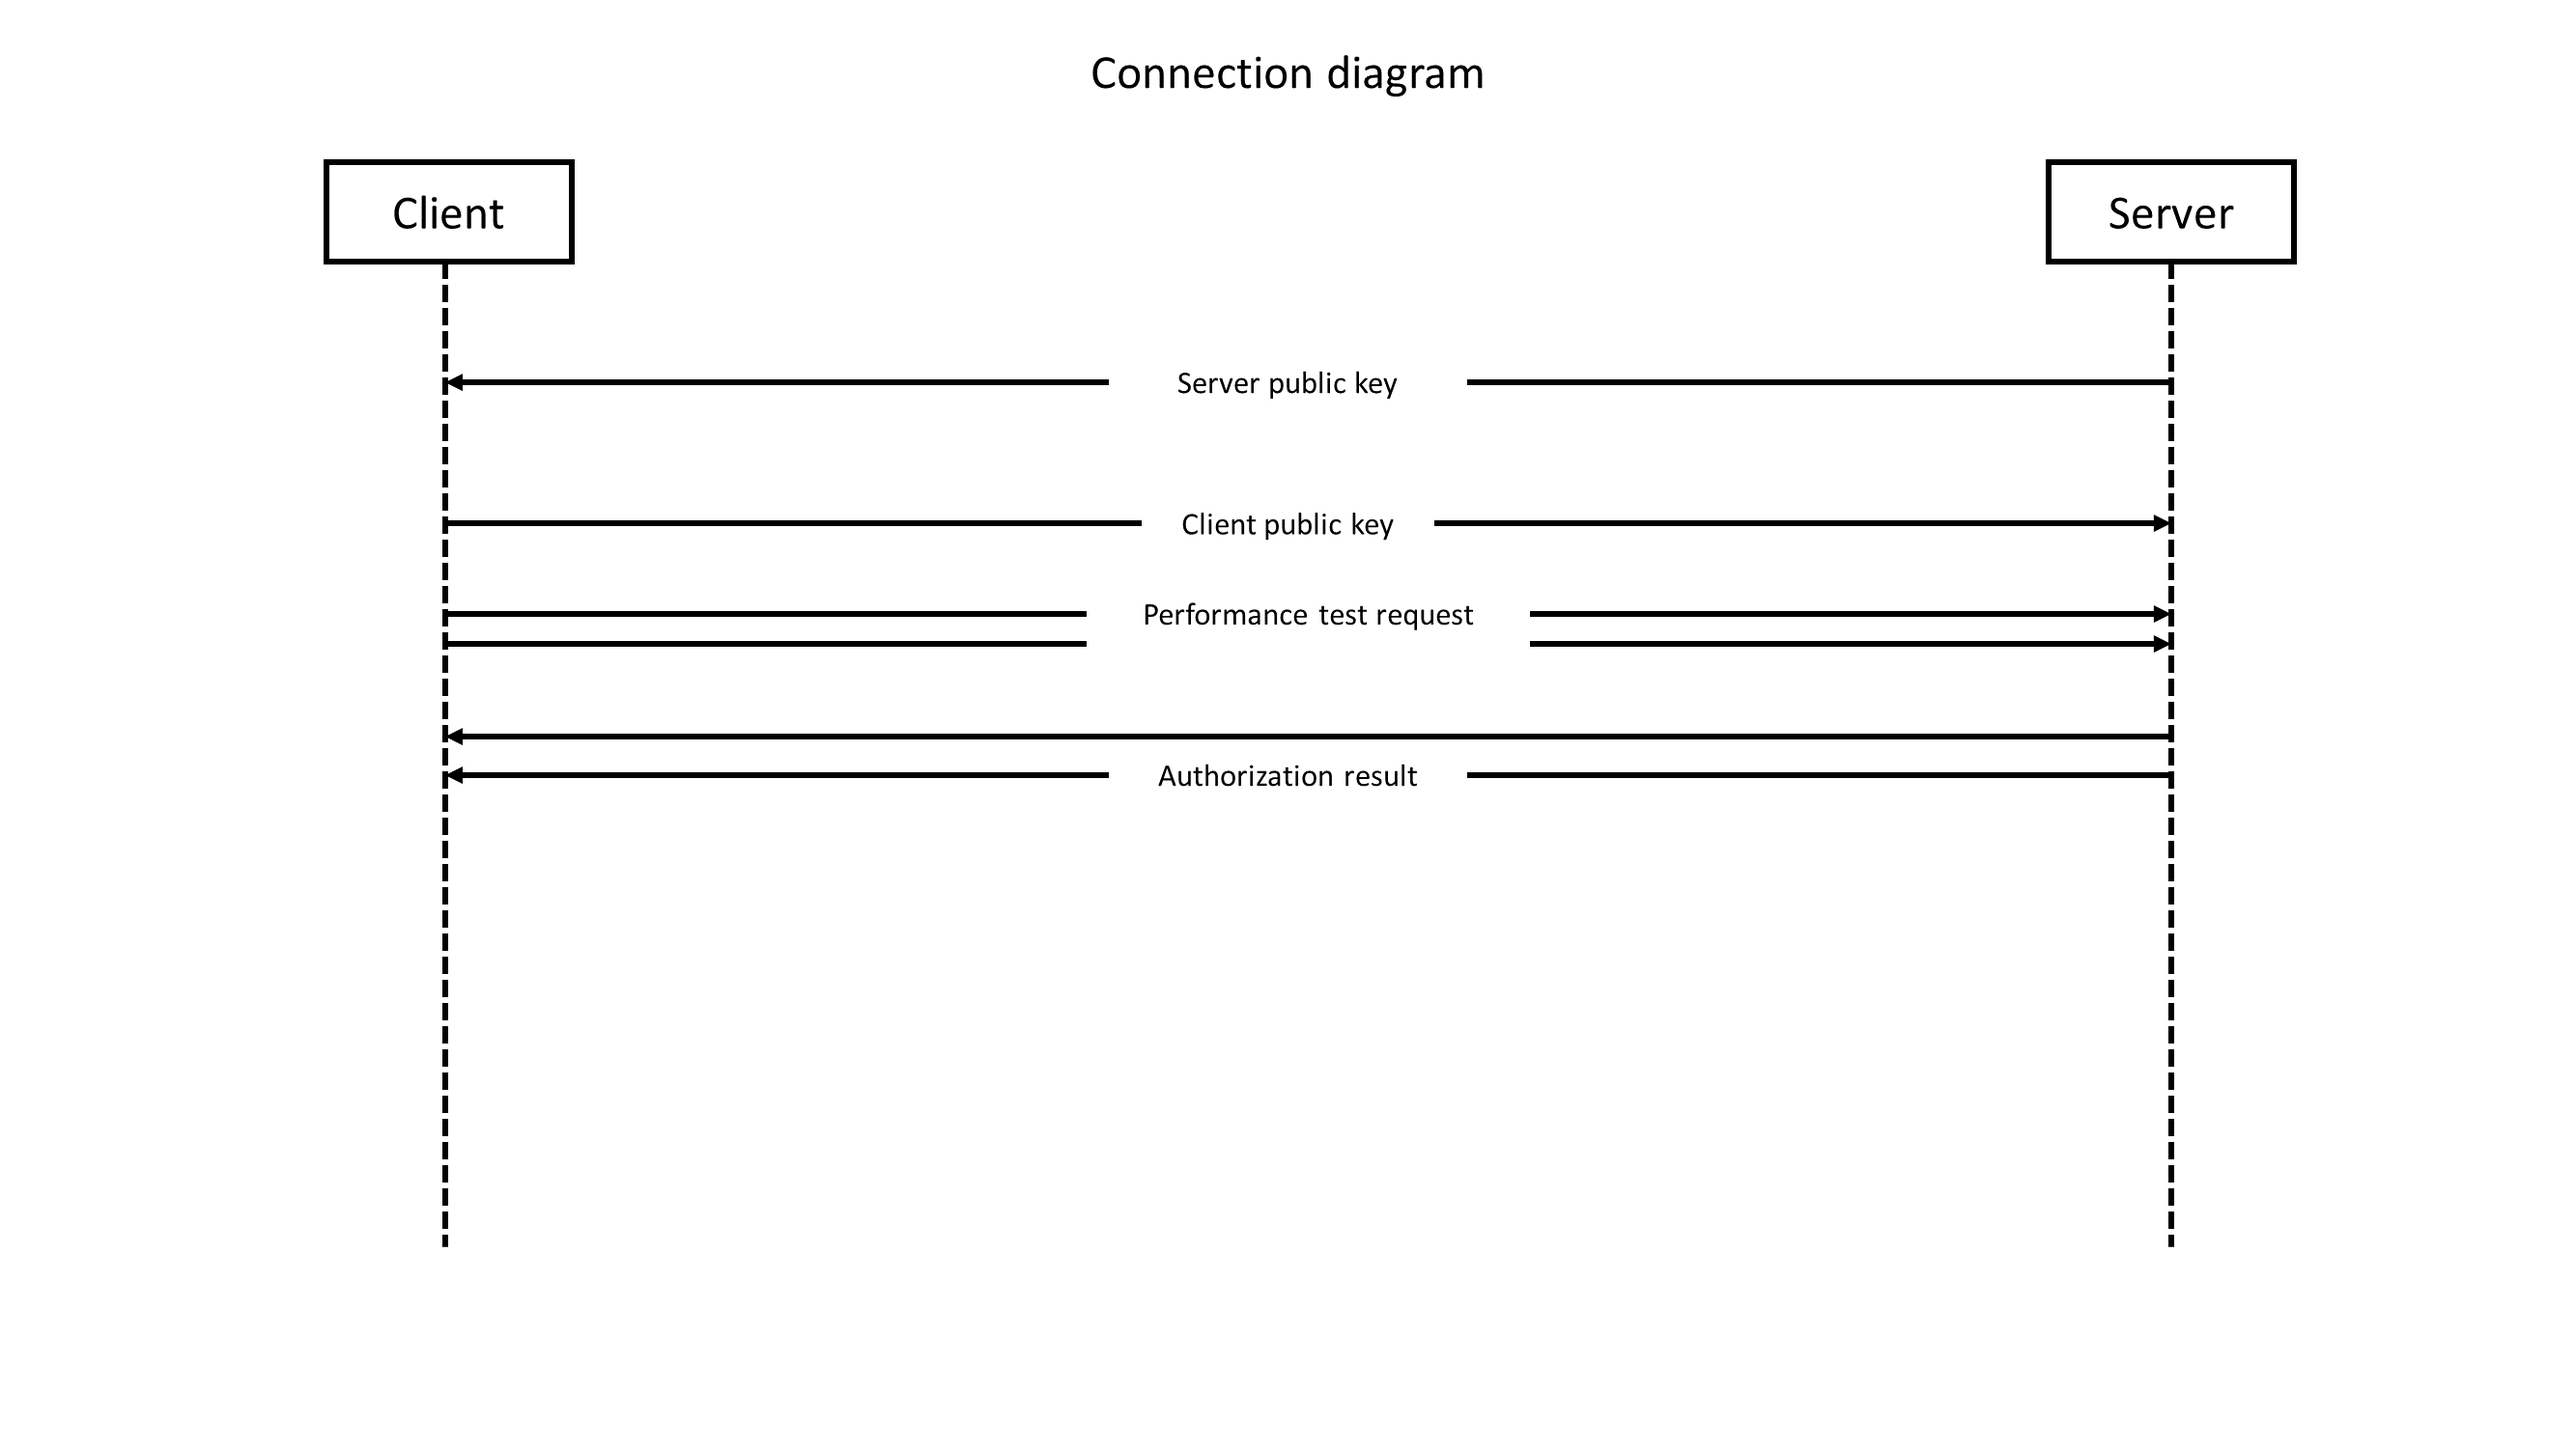
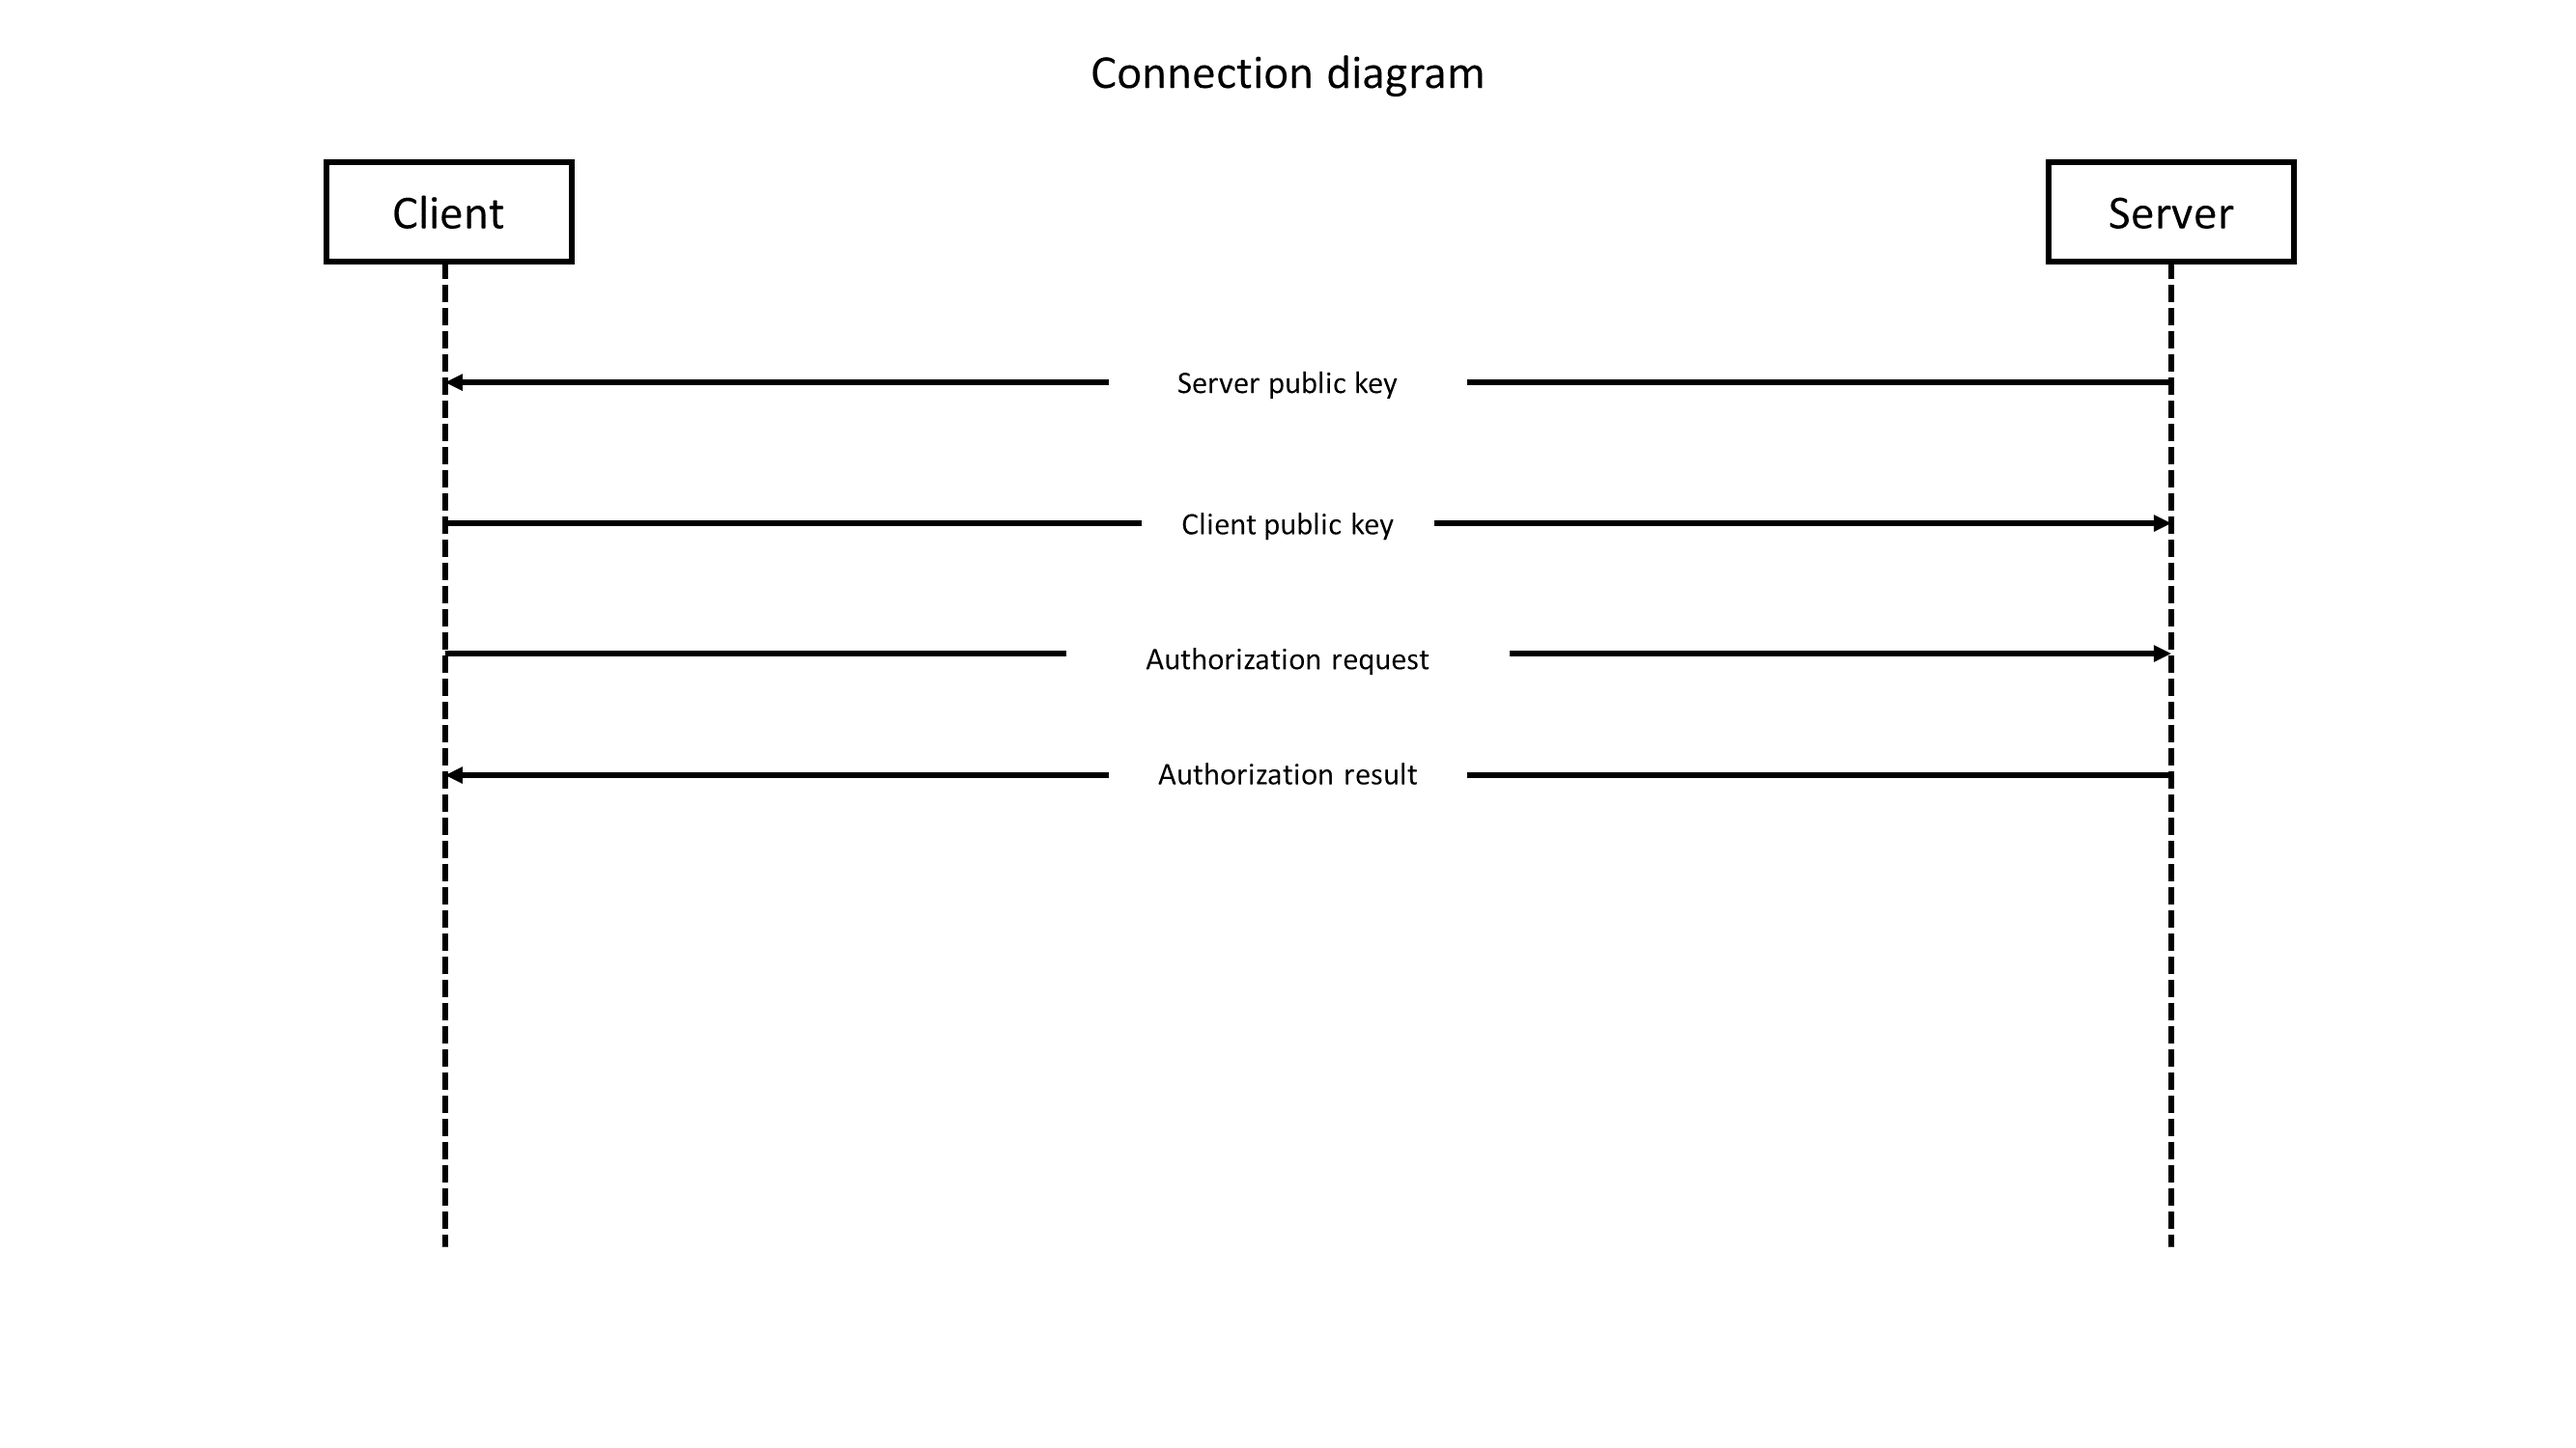
fix slide

Changed region(s): [[0.1556, 0.3987, 0.5602, 0.46], [0.1867, 0.4907, 0.8403, 0.552], [0.5913, 0.3987, 0.8403, 0.46]]

diff --git a/README.md b/README.md
@@ -303,7 +303,7 @@ Message payload:
 
 ![score request](readme/score_request.png)
 
-## Game procedure
+## Game move procedure
 -	The user inputs the "rock", "paper" or "scissors" command
 -	Client sends PlayerMoveRequest message with the corresponding option
 -	Server generates random move and responds with the PlayerMoveReply message
